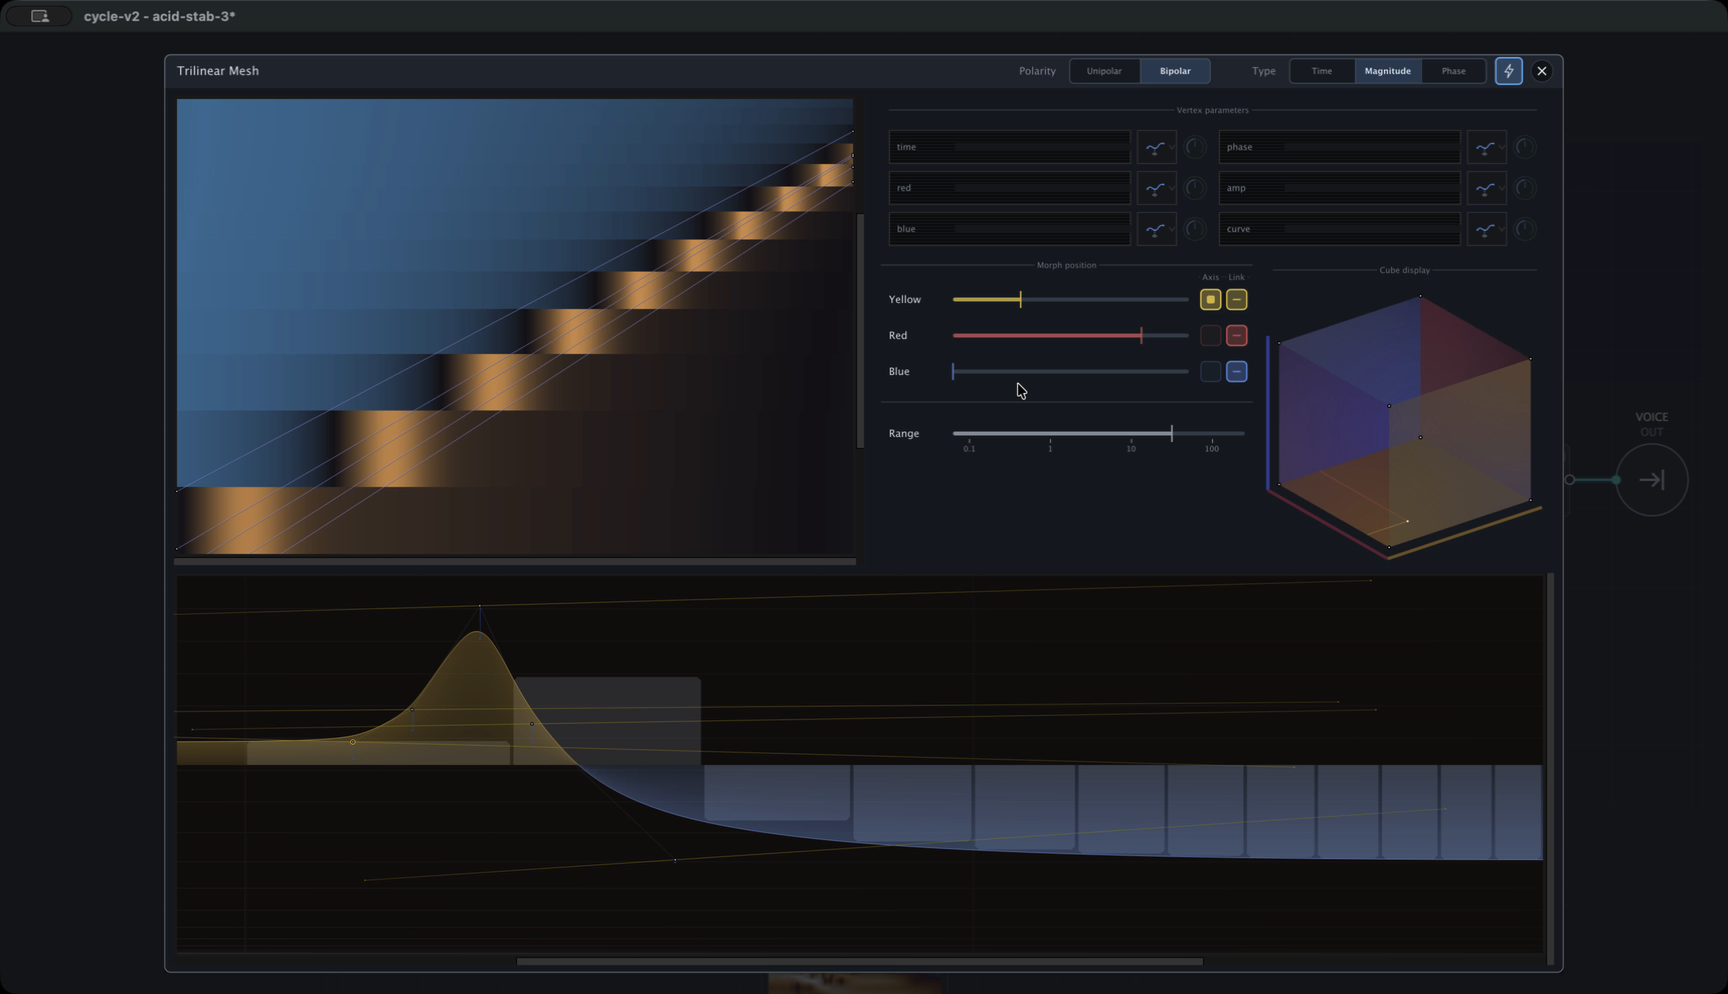
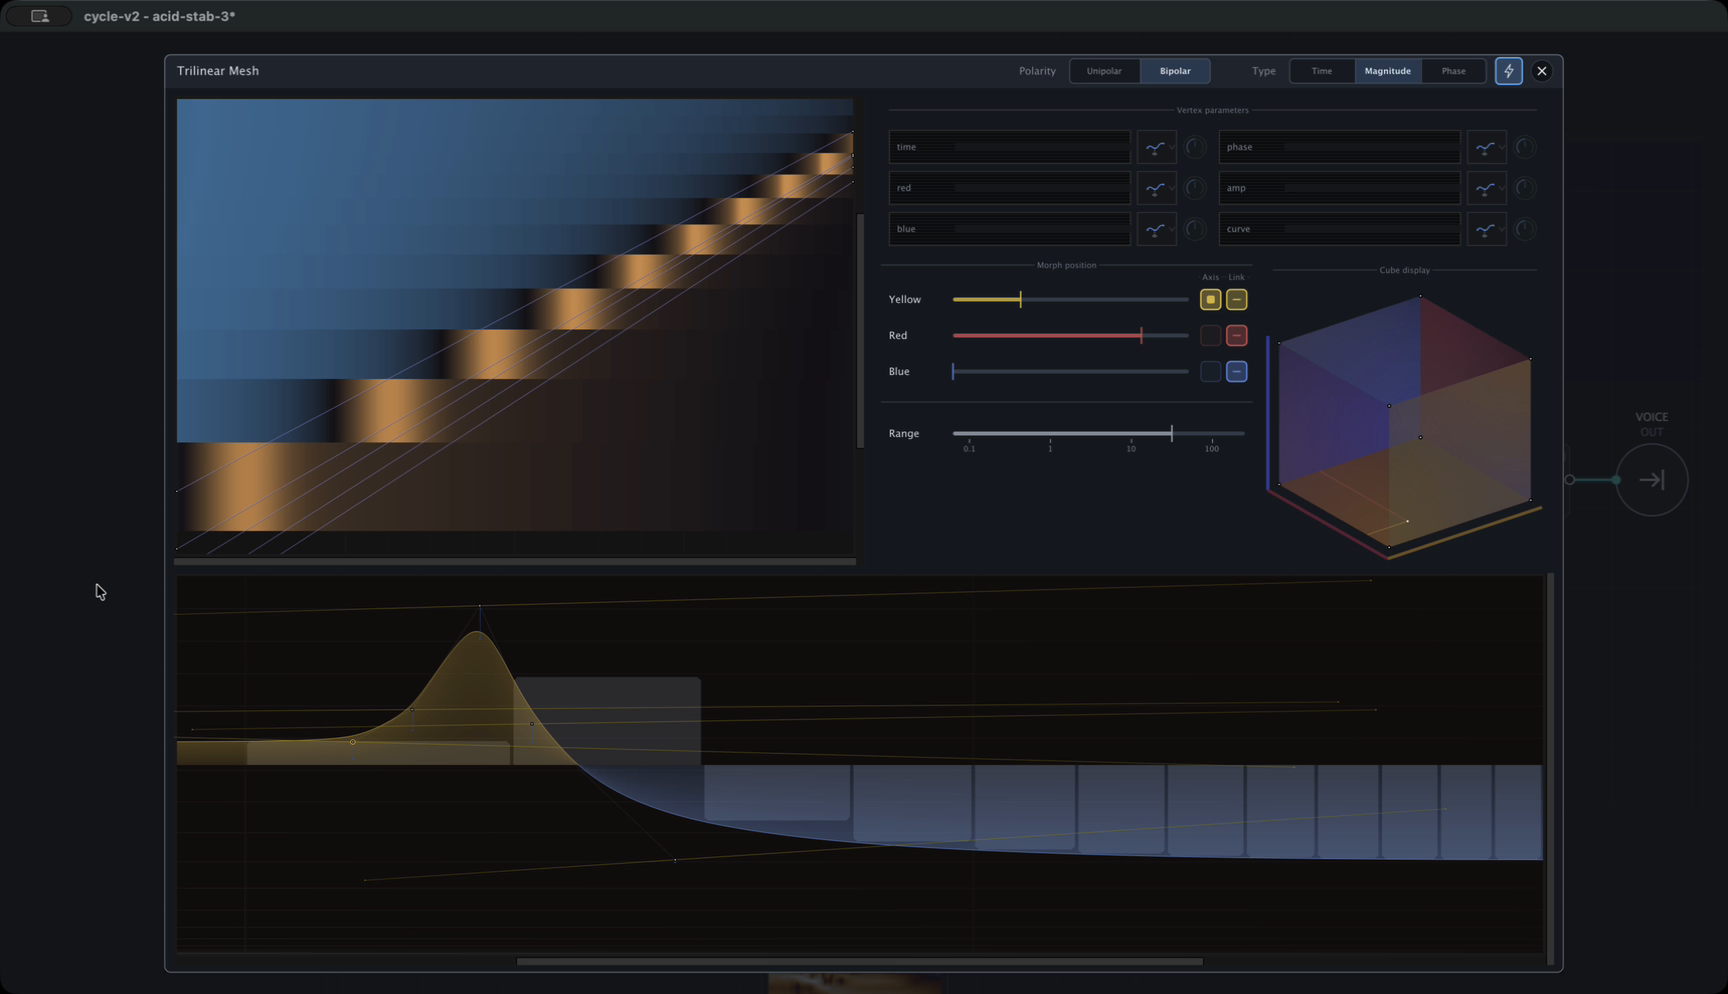
Match spectral surface bands to log harmonic bins

Changed region(s): [[0.0938, 0.1247, 0.5, 0.499], [0.0938, 0.5302, 0.2812, 0.5614]]

diff --git a/scripts/test_cycle_v2_trimesh_morph_surface.py b/scripts/test_cycle_v2_trimesh_morph_surface.py
@@ -73,7 +73,7 @@ def surface_column(video, result):
     return column
 
 
-def lowest_harmonic_height(video, result):
+def first_two_harmonic_heights(video, result):
     width, height, editor, panel = panel_video_geometry(video, result)
     x = round(editor["x"] + panel["x"] + 0.067 * panel["width"])
     y = round(height - result["snapshot"]["height"] + editor["y"] + panel["y"])
@@ -91,14 +91,32 @@ def lowest_harmonic_height(video, result):
         raise AssertionError(f"Could not decode the lowest harmonic in {video}")
 
     orange_rows = 0
-    for row in range(round(0.65 * panel_height), panel_height):
+    first_orange_row = None
+    row_colours = []
+    for row in range(panel_height):
         pixels = frame[row * 12:(row + 1) * 12]
-        red = sum(pixels[0::3]) / 4
-        green = sum(pixels[1::3]) / 4
-        blue = sum(pixels[2::3]) / 4
+        row_colours.append(tuple(sum(pixels[channel::3]) / 4
+                                 for channel in range(3)))
+
+    for row in range(round(0.65 * panel_height), panel_height):
+        red, green, blue = row_colours[row]
         if red > green + 10 and red > blue + 15:
             orange_rows += 1
-    return orange_rows, panel_height
+            if first_orange_row is None:
+                first_orange_row = row
+
+    if first_orange_row is None:
+        raise AssertionError("Could not find the first harmonic in the panel capture")
+
+    # This fixture's second band is dark blue. Count it just above the orange
+    # first band so the earlier, lighter blue bands do not enter the comparison.
+    second_rows = 0
+    for row in range(max(0, first_orange_row - round(0.25 * panel_height)),
+                     first_orange_row):
+        red, green, blue = row_colours[row]
+        if red < 55 and green < 86 and blue < 120 and blue > red + 35:
+            second_rows += 1
+    return orange_rows, second_rows, panel_height
 
 
 def held_fixture():
@@ -148,11 +166,20 @@ def main():
             f"Spectral surface changed on release or lost its stepped rows: "
             f"mean difference={mean_difference:.1f}, transitions={transitions}"
         )
-    lowest_rows, panel_height = lowest_harmonic_height(released_video, released_result)
-    if lowest_rows < 0.08 * panel_height:
-        raise AssertionError(f"Lowest harmonic is too thin: {lowest_rows}/{panel_height} pixels")
+    first_rows, second_rows, panel_height = first_two_harmonic_heights(
+        released_video, released_result)
+    if first_rows < 0.08 * panel_height or second_rows < 0.08 * panel_height:
+        raise AssertionError(
+            f"Could not resolve both low harmonic bands: {first_rows}, {second_rows}"
+        )
+    if first_rows < 1.2 * second_rows:
+        raise AssertionError(
+            f"First log-spaced harmonic band should exceed the second: "
+            f"{first_rows} vs {second_rows} pixels"
+        )
     print(f"Spectral rows stable through release: mean difference={mean_difference:.1f}, "
-          f"transitions={transitions}, lowest harmonic={lowest_rows}/{panel_height} pixels; "
+          f"transitions={transitions}, first/second harmonic={first_rows}/{second_rows} "
+          f"of {panel_height} pixels; "
           "no surface rebuild on mouse-up")
     print(f"Captures: {ARTIFACTS}")
 

diff --git a/lib/src/UI/Panels/Panel3D.cpp b/lib/src/UI/Panels/Panel3D.cpp
@@ -493,7 +493,7 @@ void Panel3D::doColumnDraw(Buffer<Int8u> pxBuf, Buffer<float> grd32f, int i) {
 
     if (i > 0 || ! useVertices) {
         const int quadCount = useVertices && shouldStepSurfaceRows()
-                ? 2 * draw.sizeY - 1 : draw.sizeY;
+                ? 2 * (draw.sizeY - 1) - 1 : draw.sizeY;
         panelRenderer->drawSurfaceColumn(colours, vertices, draw.stride, quadCount);
     }
 
@@ -592,18 +592,16 @@ void Panel3D::setVertices(int column, Buffer<float> vertices) const {
 }
 
 void Panel3D::setSteppedVertices(int column, Buffer<float>& vertices) const {
-    jassert(8 * draw.sizeY <= vertices.size());
+    jassert(8 * (draw.sizeY - 1) <= vertices.size());
 
     Float32* vertexPtr = vertices;
     const Float32 x0 = scaledX[column - 1];
     const Float32 x1 = scaledX[column];
     const Float32* y = scaledY.get();
-    const Float32 lowerEdge = sy(0.f);
-    for (int row = 0; row < draw.sizeY; ++row) {
-        const Float32 start = row == 0
-                ? lowerEdge : 0.5f * (y[row - 1] + y[row]);
-        const Float32 end = row + 1 == draw.sizeY
-                ? y[row] : 0.5f * (y[row] + y[row + 1]);
+    // The final log position closes the last bin, as in the 2D partial view.
+    for (int row = 0; row + 1 < draw.sizeY; ++row) {
+        const Float32 start = y[row];
+        const Float32 end = y[row + 1];
         *vertexPtr++ = x0;
         *vertexPtr++ = start;
         *vertexPtr++ = x1;
@@ -643,9 +641,9 @@ void Panel3D::doSteppedColourLookup8u(
         Buffer<Int8u>& colors) {
     Int8u* colorPtr = colors;
     const int bytes = draw.stride;
-    jassert(4 * bytes * draw.sizeY <= colors.size());
+    jassert(4 * bytes * (draw.sizeY - 1) <= colors.size());
 
-    for (int row = 0; row < draw.sizeY; ++row) {
+    for (int row = 0; row + 1 < draw.sizeY; ++row) {
         for (int edge = 0; edge < 2; ++edge) {
             VecOps::copy(grd.get() + clrIndicesA[row], colorPtr, bytes);
             colorPtr += bytes;

diff --git a/docs/TDD/cycle-v2-trimesh-spectral-morph-surface-stability.md b/docs/TDD/cycle-v2-trimesh-spectral-morph-surface-stability.md
@@ -56,13 +56,15 @@ Time, phase, and other domain materials still use the scalar renderer. This
 removes the magnitude renderer choice at the panel boundary rather than trying
 to tune two independent interpolation policies to look alike.
 
-The stepped path inherited the legacy bottom fill of 15 pixels. `LogRegions`
-positions are sample centers, and the next row uses the much larger distance
-between centers. The lowest authored harmonic therefore appears artificially
-thin. `Panel3D` should place each discrete row between the midpoints to its
-neighbors, using the display-domain lower edge for the first row and the last
-sample position for the upper edge. This changes only GL column geometry; it
-keeps mesh samples, harmonic positions, row colours, and gesture cost intact.
+The stepped path inherited the legacy bottom fill of 15 pixels. A midpoint
+cell made the lowest harmonic visible, but the user's visual comparison showed
+that it remained shorter than the second band. `TrimeshPanel2D` is authoritative
+for harmonic bin placement: bin `i` extends from log position `i` to position
+`i + 1`, and its bar uses a small gap inside that interval. `Panel3D` should
+use those same intervals without gaps for a connected surface. The final log
+position closes the last interval; it does not create an extra band. This
+changes only GL column geometry and colour lookup count. It keeps mesh samples,
+harmonic positions, row colours, and gesture cost intact.
 
 The node canvas painted cached node tiles at rest but directly repainted every
 node during a move. That exposed a differently sampled compact heatmap and did
@@ -111,7 +113,7 @@ eligibility decision was added in graph or runtime code. The old compact
 `bridge.syncFromNode(..., 96)` path is the deletion target; compact painting
 must no longer replace the expanded panel's grid.
 
-Current size review: `Panel3D.cpp` grew from 1,069 to 1,120 lines and owns
+Current size review: `Panel3D.cpp` grew from 1,069 to 1,118 lines and owns
 expanded panel surface rendering, overlay drawing, and GL presentation. Its
 stable collaborators remain `PanelRenderer`, `ColorGradient`, and the panel
 data retriever. The new row policy is selected by `TrimeshPanel3D`; `Panel3D`
@@ -149,9 +151,9 @@ presentation file. The existing extraction direction in
       row style at an unchanged position. The local `cliclick` process still
       lacks Accessibility permission, so the agent fixture provides separate
       synthetic gesture evidence.
-- [x] The lowest authored harmonic has a visible cell comparable to its next
-      neighbor at the same pitch, and the rows remain discrete through drag and
-      release.
+- [x] The lowest authored harmonic occupies its full first log interval and is
+      visibly taller than the second band, matching 2D bin-width ordering.
+      The rows remain discrete through drag and release.
 - [x] A compact spectral Trimesh preview retains the same row appearance while
       its node is moved and after release at the same pointer position.
 
@@ -179,10 +181,16 @@ transitions, and no surface rebuild on mouse-up. The three focused CTest cases
 passed, including the renderer-selection test. These synthetic pointer and OS
 capture checks do not replace native pointer delivery.
 
-After centering each discrete row on its harmonic position, the visual
-regression measures 66 orange pixels for the lowest row in the 469-pixel panel;
-the previous 15-pixel fill rendered only 14 visible pixels. The captured image
-shows that the first and second bands now occupy comparable vertical space.
+The midpoint-cell visual regression measured 66 orange pixels for the lowest
+row in the 469-pixel panel; the same colour classifier measured 72 pixels for
+the second band. That contradicted the monotonic bin spacing visible in 2D.
+With the 2D interval mapping, the focused OS capture measured 88 and 63 pixels
+for the first and second bands. The visual fixture now asserts that the first
+band is at least 1.2 times the second, and held and released frames match with
+no surface rebuild on mouse-up. Three focused CTest cases passed, and the
+architecture audit and `git diff --check` passed. The measured height ratio
+of 1.40 closely follows the 2D log spacing shown in the updated figure. The
+updated assertion rejects the saved midpoint-cell baseline at 66 versus 72.
 
 `python3 scripts/test_cycle_v2_trimesh_preview_node_move.py` drives two node
 positions in `acid-stab-3`, checks tile-cache hit/miss telemetry, compares OS

diff --git a/docs/chats/1792349815.md b/docs/chats/1792349815.md
@@ -13,6 +13,8 @@ missed the reported behavior.
 
 - Prefer discrete harmonic rows in spectral magnitude surfaces; blending
   adjacent harmonic rows makes the display look less accurate.
+- Match the 3D spectral band widths to the 2D log-spaced harmonic bins. The
+  first band should be wider than the second at the same pitch.
 - Keep compact previews and expanded editors on the same discrete-row visual
   policy. A position-only node drag should reuse its cached preview image.
 - Treat a visual regression as unresolved when the user still sees the same
@@ -25,3 +27,5 @@ Check rendered frames during movement and release, including any fallback
 rendering path and no-delta commit behavior.
 When a drag reveals a temporary appearance change, inspect both cache
 invalidation and the live paint path; assert tile reuse for position-only edits.
+For linked 2D and 3D spectral views, compare actual harmonic interval widths
+in a rendered frame, not only whether both views use discrete colours.
